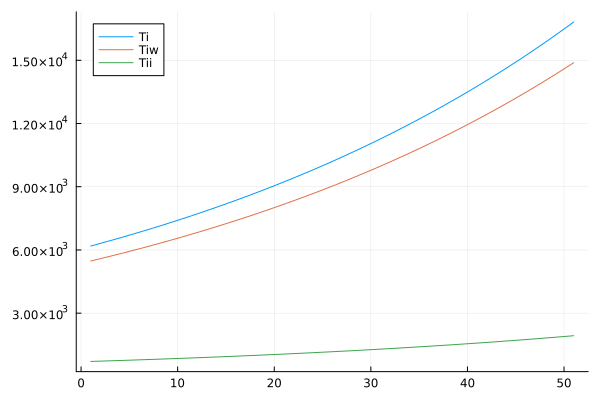
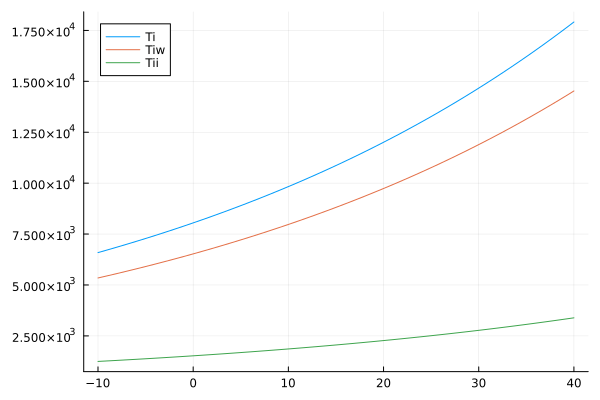
ver. 1.0.1

diff --git a/README.md b/README.md
@@ -102,7 +102,7 @@
 - $V_b^e=(1-\lambda_V)V_{b-1}^e+\lambda_VV_{b-1}\frac{V_{b-1}}{V_{b-1}-\Delta V_{b-1}}$
 - $\Delta e=\frac{\eta_3(I-\beta_2K_{f-1})}{p_{e-1}}$
 - $e=e_{-1}+\Delta e$
-- $L_f=\max(0, (1+\eta_4)W-M_{f-1})$
+- $L_f=\eta_4(W_f+T_v+T_{ff}+T_{af})$
 - $\Delta L_f=L_f-L_{f-1}$
 - $\Delta L=\Delta L_w+\Delta L_f$
 - $L=L_{-1}+\Delta L$
@@ -209,7 +209,7 @@ $$
 - $(\beta_1, \beta_2, \beta_3, \beta_4)=(1,0.05,1, 0.05)$
 - $\gamma=0.02$
 - $\delta=0.65$
-- $(\epsilon_1, \epsilon_2, \epsilon_3, \epsilon_4, \epsilon_5, \epsilon_6, \epsilon_7, \epsilon_8, \epsilon_9)=(0.3,0.1,0.2,0.2, 0.03, 0.03, 0.2, 0.01, 0.02)$
+- $(\epsilon_1, \epsilon_2, \epsilon_3, \epsilon_4, \epsilon_5, \epsilon_6, \epsilon_7, \epsilon_8, \epsilon_9)=(0.2,0.1,0.2,0.4, 0.03, 0.03, 0.2, 0.01, 0.02)$
 - $\zeta_1, \zeta_2 =0.3, 0.05$
 - $(\eta_1,\eta_2,\eta_3,\eta_4,\eta_5)=(5,0.05,1,1,0.01)$
 - $(\theta_1, \theta_2)=(0.05, 0.3)$
